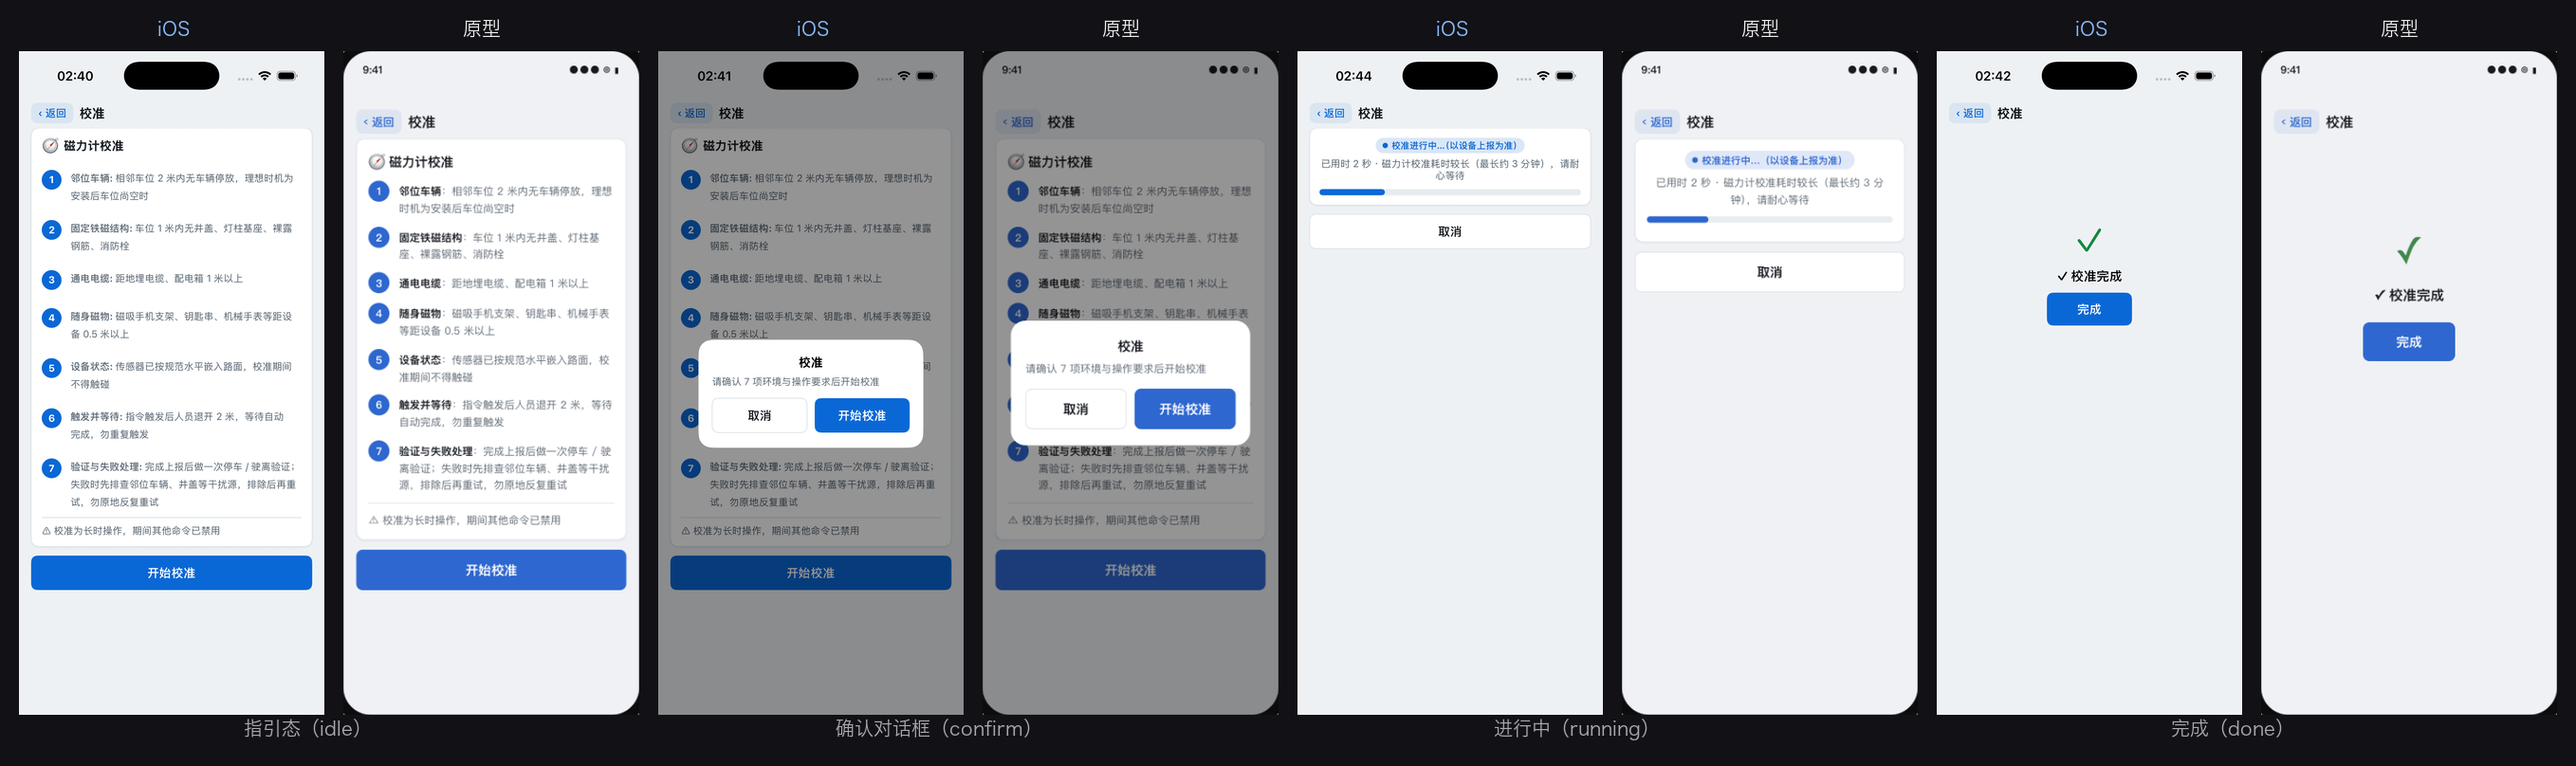
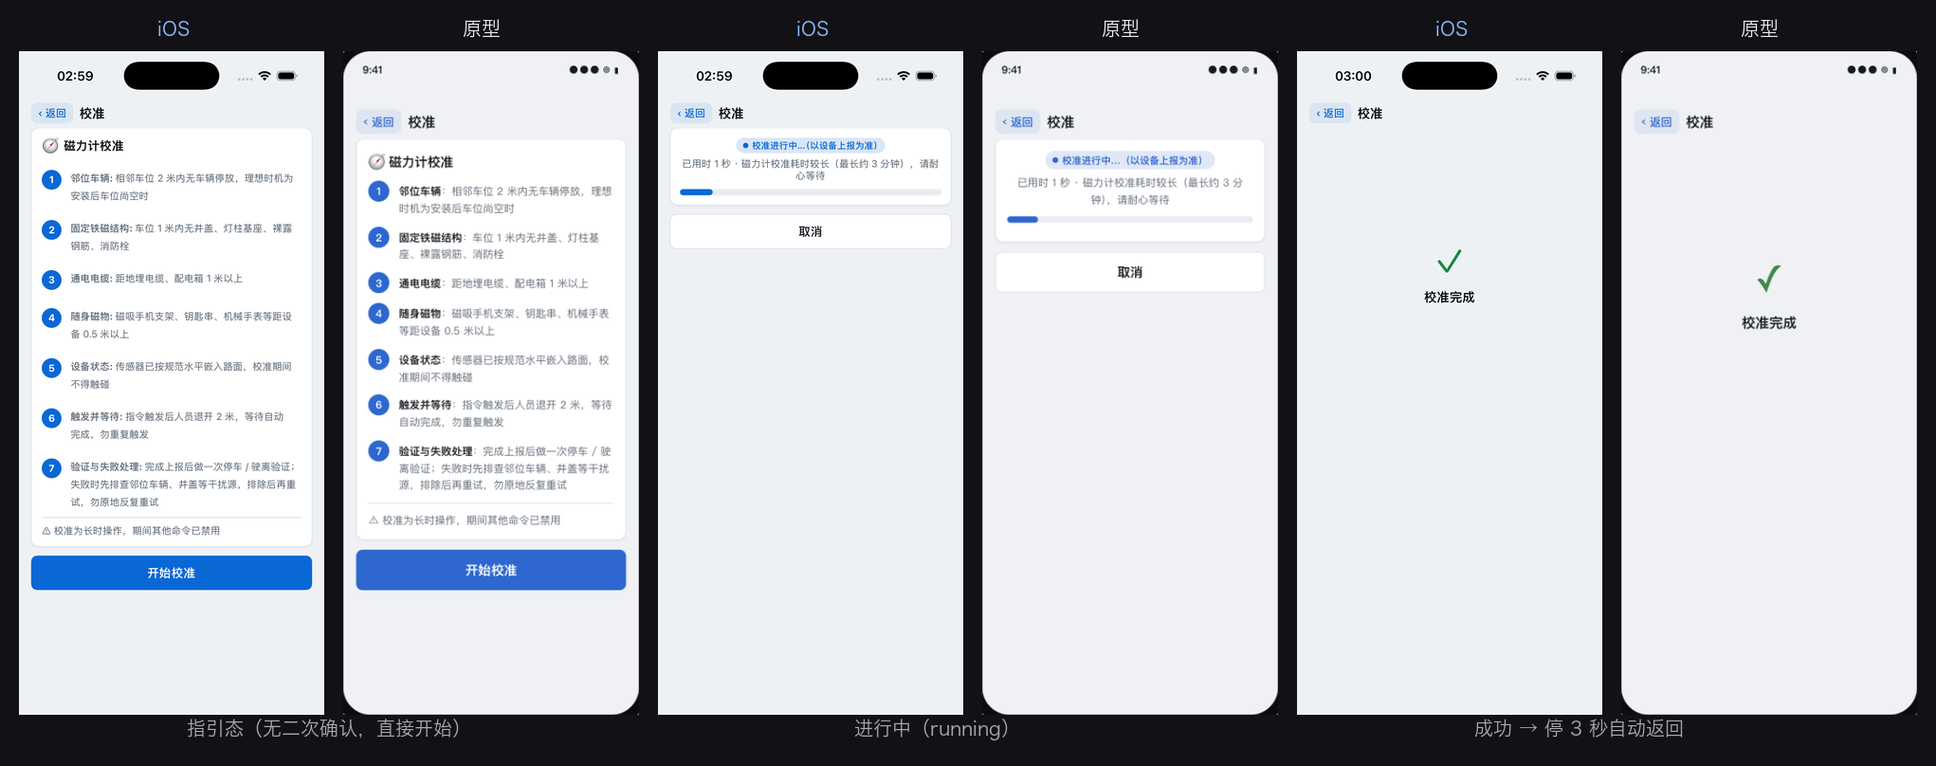
feat(ios): calibration flow reworked per user ruling 2026-09-10
1. no confirm dialog - Start Calibration begins immediately
2. success: show completion info, auto-return to detail after 3s
   (Done button removed)
3. failure: dialog asks to retry (Try Again restarts running / Cancel
   returns); branch ready for real device-reported results (demo cycle
   always succeeds, same as prototype)

Prototype P_cal synced in the same commit (confirm branch removed, done
auto-returns after 3s) + syntax smoke passed. Spec card §5 records the
rulings. Comparison refreshed: P-cal_states_2026-09-10.png (3 states).

diff --git a/HKT-BLETools/ios/App/CalibrationView.swift b/HKT-BLETools/ios/App/CalibrationView.swift
@@ -2,21 +2,23 @@ import CoreBLE
 import CoreProtocol
 import SwiftUI
 
-/// 校准页（P_cal）—— 1:1 克隆冻结原型（规格卡 `docs/ios/design/ui-spec/P-cal.md`）。
-/// 三态：指引卡片 →（确认对话框）→ 进行中（计时+进度条）→ 完成态。
+/// 校准页（P_cal）—— 克隆冻结原型 + 用户 2026-09-10 三条流程裁决（规格卡 `docs/ios/design/ui-spec/P-cal.md` §5）：
+/// 1. 无二次确认，点「开始校准」直接开始；
+/// 2. 成功 → 显示成功信息，停顿 3 秒自动返回详情页；
+/// 3. 失败 → 弹窗询问是否再次尝试，取消则返回。
 /// 原型演示为本地 8s 计时；真实校准命令（以设备上报为准）随协议里程碑接入。
 struct CalibrationView: View {
     let family: DeviceFamily
 
     @Environment(LanguageStore.self) private var langStore
     @Environment(\.dismiss) private var dismiss
-    @State private var confirmVisible = false
     @State private var state: CalState = .idle
     @State private var elapsed = 0
+    @State private var showRetry = false
     @State private var timer: Timer?
 
     enum CalState: Equatable {
-        case idle, running, done
+        case idle, running, success, failure
     }
 
     private var isUDS: Bool { family == .uds100 }
@@ -34,7 +36,8 @@ struct CalibrationView: View {
                     switch state {
                     case .idle: idleCard
                     case .running: runningCard
-                    case .done: doneCenter
+                    case .success: successCenter
+                    case .failure: failureCenter
                     }
                 }
                 .padding(.horizontal, 16)
@@ -43,7 +46,7 @@ struct CalibrationView: View {
         }
         .background(Theme.bg)
         .toolbar(.hidden, for: .navigationBar)
-        .overlay { confirmDialog }
+        .overlay { retryDialog }
         .onDisappear { stopTimer() }
     }
 
@@ -85,8 +88,9 @@ struct CalibrationView: View {
                 .stroke(Theme.line.opacity(0.82), lineWidth: 1))
             .hktShadow()
 
+            // 裁决 1：无二次确认，直接开始
             Button {
-                confirmVisible = true
+                begin()
             } label: {
                 Text(zh ? "开始校准" : "Start Calibration")
                     .font(.hkt(16, .semibold))
@@ -159,46 +163,55 @@ struct CalibrationView: View {
         }
     }
 
-    // MARK: - done 完成（规格卡 §1 done）
+    // MARK: - success 成功（裁决 2：显示成功信息，停顿 3 秒自动返回）
 
-    private var doneCenter: some View {
+    private var successCenter: some View {
         VStack(spacing: 10) {
             Text("✓").font(.system(size: 46)).foregroundStyle(Theme.ok)
-            Text(zh ? "✓ 校准完成" : "✓ Calibration complete").font(.hkt(17, .semibold))
-            Button {
-                dismiss()
-            } label: {
-                Text(zh ? "完成" : "Done")
-                    .font(.hkt(16, .semibold))
-                    .foregroundStyle(.white)
-                    .padding(.vertical, 12).padding(.horizontal, 40)
-                    .background(Theme.info, in: RoundedRectangle(cornerRadius: Theme.controlRadius))
-            }
-            .padding(.top, 2)
+            Text(zh ? "校准完成" : "Calibration complete").font(.hkt(17, .semibold))
         }
         .padding(.horizontal, 32)
         .frame(maxWidth: .infinity, minHeight: 380)
-    }
-
-    // MARK: - 确认对话框（规格卡 §1）
-
-    @ViewBuilder
-    private var confirmDialog: some View {
-        if confirmVisible {
-            HKTDialog(title: zh ? "校准" : "Calibration",
-                      message: zh ? (isUDS ? "将设备水平静止放置，然后开始校准" : "请确认 7 项环境与操作要求后开始校准")
-                                  : (isUDS ? "Place the device level and still, then start" : "Confirm the seven environment and operation checks, then start"),
-                      buttons: {
-                DialogButton(title: zh ? "取消" : "Cancel") { confirmVisible = false }
-                DialogButton(title: zh ? "开始校准" : "Start Calibration", kind: .primary) {
-                    confirmVisible = false
-                    begin()
-                }
-            })
+        .task {
+            try? await Task.sleep(for: .seconds(3))
+            dismiss()
         }
     }
 
-    // MARK: - 状态机（原型 8s 演示周期；真实校准命令随协议里程碑接入）
+    // MARK: - failure 失败（裁决 3：弹窗询问是否再次尝试）
+
+    private var failureCenter: some View {
+        VStack(spacing: 10) {
+            Text("✕").font(.system(size: 46)).foregroundStyle(Theme.err)
+            Text(zh ? "校准未成功" : "Calibration failed").font(.hkt(17, .semibold))
+        }
+        .padding(.horizontal, 32)
+        .frame(maxWidth: .infinity, minHeight: 380)
+        .task {
+            guard !showRetry else { return }
+            showRetry = true
+        }
+    }
+
+    @ViewBuilder
+    private var retryDialog: some View {
+        if state == .failure, showRetry {
+            HKTDialog(title: zh ? "校准未成功" : "Calibration failed",
+                      message: zh ? "本次校准未成功。是否再次尝试校准？"
+                                  : "This calibration attempt did not succeed. Try again?") {
+                DialogButton(title: zh ? "取消" : "Cancel") {
+                    stopTimer()
+                    dismiss()   // 裁决 3：取消=返回详情页
+                }
+                DialogButton(title: zh ? "再次尝试" : "Try Again", kind: .primary) {
+                    showRetry = false
+                    begin()     // 重新进入进行中
+                }
+            }
+        }
+    }
+
+    // MARK: - 状态机（原型 8s 演示周期；真实校准结果由设备上报驱动，规格卡 §3）
 
     private func begin() {
         state = .running
@@ -209,7 +222,8 @@ struct CalibrationView: View {
                 elapsed += 1
                 if elapsed >= 8 {
                     stopTimer()
-                    state = .done
+                    // 演示周期必成功；真实接入后此处按设备上报结果分流 success/failure
+                    state = .success
                 }
             }
         }

diff --git a/HKT-BLETools/docs/ios/design/prototype/index.html b/HKT-BLETools/docs/ios/design/prototype/index.html
@@ -1619,7 +1619,7 @@ function P_log(){
     `<div class="body">${lines}</div>`;
 }
 function calOpen(){S.cal={state:"idle",elapsed:0,confirm:false};nav("cal");}
-function calBegin(){S.cal.confirm=false;S.cal.state="running";S.cal.elapsed=0;
+function calBegin(){S.cal.state="running";S.cal.elapsed=0;
   clearInterval(S.calTimer);
   S.calTimer=setInterval(()=>{S.cal.elapsed++;
     if(S.cal.elapsed>=8){clearInterval(S.calTimer);S.cal.state="done";}
@@ -1627,12 +1627,9 @@ function calBegin(){S.cal.confirm=false;S.cal.state="running";S.cal.elapsed=0;
   render();}
 function P_cal(){
   if(!S.cal)S.cal={state:"idle",elapsed:0,confirm:false};
+  /* 用户 2026-09-10 裁决：①无二次确认；②成功显示信息后停 3 秒自动返回；③失败弹窗询问是否重试（iOS 实现，演示必成功） */
   const dc=S.device!=="UDS100"; // UDS100=倾角校准；DC200Family=磁力计校准
   const guide=dc?t("calForDC"):t("calForUDS");
-  const confirm=S.cal.confirm?`<div class="dialog-mask"><div class="dialog"><div class="t">${t("cal")}</div>
-      <div class="b">${guide}</div>
-      <div class="btns"><button class="btn secondary" style="margin:0" onclick="S.cal.confirm=false;render()">${t("cancel")}</button>
-      <button class="btn" style="margin:0" onclick="calBegin()">${t("calStart")}</button></div></div></div>`:"";
   let mid;
   if(S.cal.state==="idle"){
     const title=dc?(lang==="zh"?"磁力计校准":"Magnetometer Calibration"):(lang==="zh"?"倾角校准":"Tilt Calibration");
@@ -1646,7 +1643,7 @@ function P_cal(){
         <div class="kv" style="flex:1;line-height:1.6;padding-top:3px">${st[0]?`<b>${st[0]}</b>${lang==="zh"?"：":": "}`:""}${st[1]}</div></div>`).join("")}
       <div class="kv" style="margin-top:10px;padding-top:10px;border-top:1px solid var(--line)">⚠ ${t("calNote")}</div>
     </div>
-    <button class="btn" onclick="S.cal.confirm=true;render()">${t("calStart")}</button>`;
+    <button class="btn" onclick="calBegin()">${t("calStart")}</button>`;
   } else if(S.cal.state==="running"){
     mid=`<div class="card" style="text-align:center">${badge("info",t("calRun"))}
       <div class="kv" style="margin-top:6px">${t("calElapsed")(S.cal.elapsed)}${S.device==="UDS100"?` · ${t("cal90")}`:` · ${t("calDC3")}`}</div>
@@ -1654,10 +1651,10 @@ function P_cal(){
       <button class="btn secondary" onclick="clearInterval(S.calTimer);nav('detail')">${t("cancel")}</button>`;
   } else {
     mid=`<div class="center" style="min-height:380px"><div style="font-size:46px;color:var(--ok)">✓</div>
-      <div class="big">${t("calDone")}</div>
-      <button class="btn" style="width:auto;padding:12px 40px" onclick="nav('detail')">${t("calFinish")}</button></div>`;
+      <div class="big">校准完成</div></div>`;
+    if(!S.cal.autoBackTimer){S.cal.autoBackTimer=setTimeout(()=>{S.cal.autoBackTimer=null;nav("detail");},3000);}
   }
-  return statusbar()+navbar(t("cal"),"",true,false)+`<div class="body">${mid}</div>`+confirm;
+  return statusbar()+navbar(t("cal"),"",true,false)+`<div class="body">${mid}</div>`;
 }
 function P_perm(kind){
   const m={ask:["🛡",t("permT"),t("permB"),[["secondary",t("dontAllow"),()=>{S.perm="denied";S.page="perm";render();}]],true],

diff --git a/HKT-BLETools/docs/ios/design/ui-spec/P-cal.md b/HKT-BLETools/docs/ios/design/ui-spec/P-cal.md
@@ -1,6 +1,6 @@
-# 校准页（P_cal）— 规格卡（从冻结原型逐条提取）
+# 校准页（P_cal）— 规格卡（从冻结原型逐条提取 + 用户 2026-09-10 流程裁决）
 
-> 事实源：`docs/ios/design/prototype/index.html`（已确认·冻结 2026-09-08）。
+> 事实源：`docs/ios/design/prototype/index.html`（已确认·冻结 2026-09-08）；**流程以本卡 §5 用户裁决为准（原型 P_cal 的确认对话框与完成按钮已废弃）**。
[1 lines of base64/hex data omitted]
 > 原型变更时同一次提交更新本卡（§9 第 4 条）。
 
@@ -46,7 +46,7 @@
 ## 3. iOS 状态与数据
 
 - 入口：详情页 CAL 瓷砖（现有）→ push 校准页。
-- 状态机：idle →（确认框）→ running（1s 计时，进度条按 8s 演示周期填充）→ done → 完成回详情。**真实校准命令（长时操作、以设备上报为准）随协议里程碑接入**，当前与原型演示一致为本地计时。
+- 状态机（§5 裁决后）：idle →（无二次确认）→ running（1s 计时，进度条按 8s 演示周期填充）→ success（显示成功信息，停顿 3 秒自动返回详情）/ failure（弹窗询问是否再次尝试：再次尝试→回 running；取消→返回详情）。**真实校准命令（长时操作、以设备上报为准）随协议里程碑接入**，当前与原型演示一致为本地计时且必走 success。
 - 校准运行期间其他命令禁用（原型 opsDisabled）：iOS 为整页 push，详情页操作天然不可达。
 
 ## 4. 文案表
@@ -62,3 +62,11 @@
 | cal90 / calDC3 | 预计约 90 秒，请耐心等待 / 磁力计校准耗时较长（最长约 3 分钟），请耐心等待 | Expected ~90 seconds, please wait / Magnetometer calibration can take up to 3 minutes |
 | calNote | 校准为长时操作，期间其他命令已禁用 | Long-running operation; other commands are disabled meanwhile |
 | calDone / calFinish | ✓ 校准完成 / 完成 | ✓ Calibration complete / Done |
+| 失败弹窗（裁决 3） | 校准未成功 / 本次校准未成功。是否再次尝试校准？ / 再次尝试 / 取消 | Calibration failed / This calibration attempt did not succeed. Try again? / Try Again / Cancel |
+
+## 5. 用户 2026-09-10 流程裁决（覆盖原型行为）
+
+1. **无二次确认**：点「开始校准」直接进入进行中（原型的确认对话框废弃）。
+2. **成功**：显示成功信息（✓ 校准完成）后停顿 3 秒自动返回详情页（原型的「完成」按钮废弃）。
+3. **失败**：弹出对话框提示是否再次尝试校准；选「取消」则返回详情页（原型无失败演示，分支为 iOS 新增，真实校准接入后由设备上报驱动）。
+4. 原型 `P_cal` 已同步：去掉 confirm 分支、done 态 3 秒自动返回（同一次提交）。
